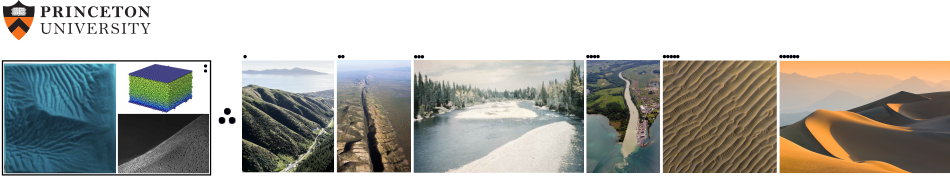
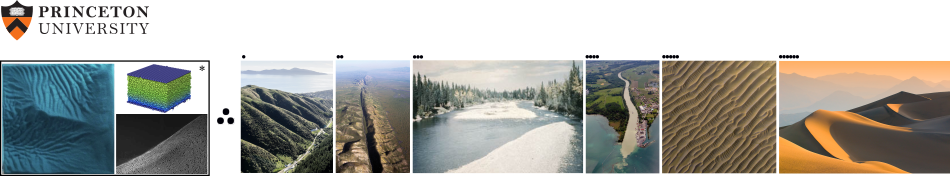
update description

diff --git a/index.html b/index.html
@@ -45,7 +45,13 @@
 </a> 	
 
 <img src="intro_img.png" alt="intro_img.png" /><br />
+<div class="p"><!----></div>
+ 	
 <span class="small">Some of my research interests include:<br />
+<span class="small">&#42; Soft condensed matter physics, granular physics, nonlinear dynamics and pattern formation;<br />
+<span class="footnotesize">&nbsp;&nbsp;&nbsp;image left: patterns in perturbed granular fluid;<br /> 
+&nbsp;&nbsp;&nbsp;image right top: models of granular and amorphous friction;<br /> 
+&nbsp;&nbsp;&nbsp;image right bottom: surface flow on a granular pile inside a rotating drum; source:  <a href="http://iramis.cea.fr/spec/Pres/Git/GM/gm.htm#Intro">link</a><br />
 <span class="small">&#8226; Landscape evolution; image: hillslope and river channel morphology near Te Puka Valley, Willington, New Zealand; source:  <a href="https://www.nzta.govt.nz/projects/wellington-northern-corridor/transmission-gully-motorway/gallery">link</a><br />
 <span class="small">&#8226;&#8226; Fault mechanics and earthquake (geo)physics; image: San Andreas Fault zone, California, USA; source: Tom Bean/Corbis<br />
 <span class="small">&#8226;&#8226;&#8226; Sediment transport and surficial patterns in gravel bed rivers; image: gravel bar formation and armoring (grain sorting, coarsening) phenomenon in Elbow river, Canada; source: <a href="https://books.google.com/books?id=vF3BiZ4wwHQC&lpg=PA242&ots=fEiZx7cx0q&pg=PA244#v=onepage&q&f=false">link</a><br />
